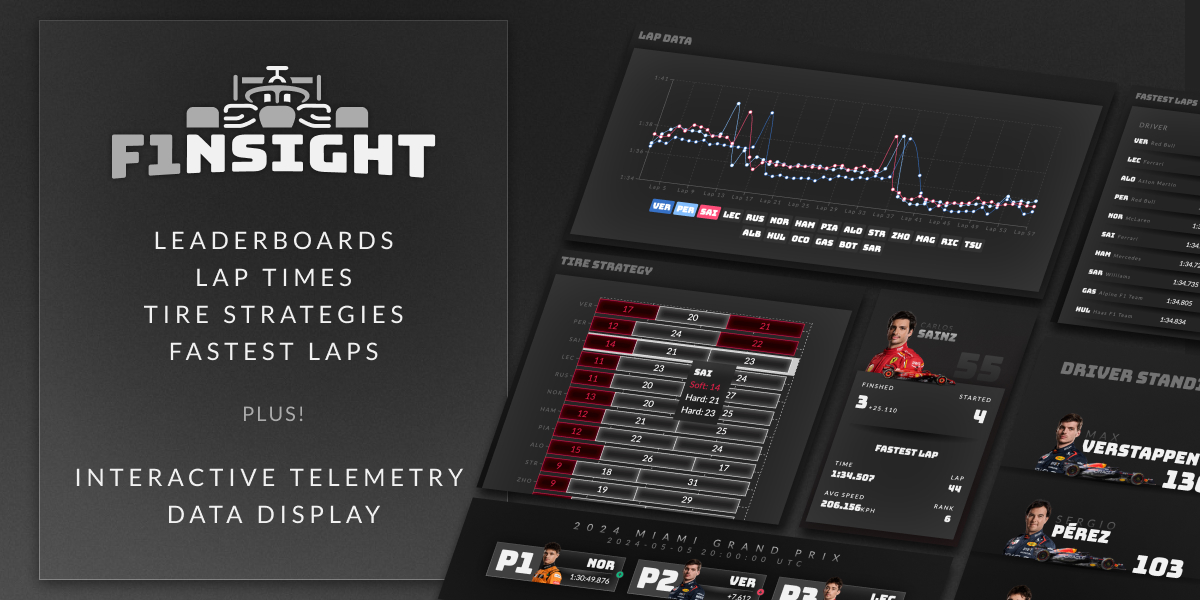
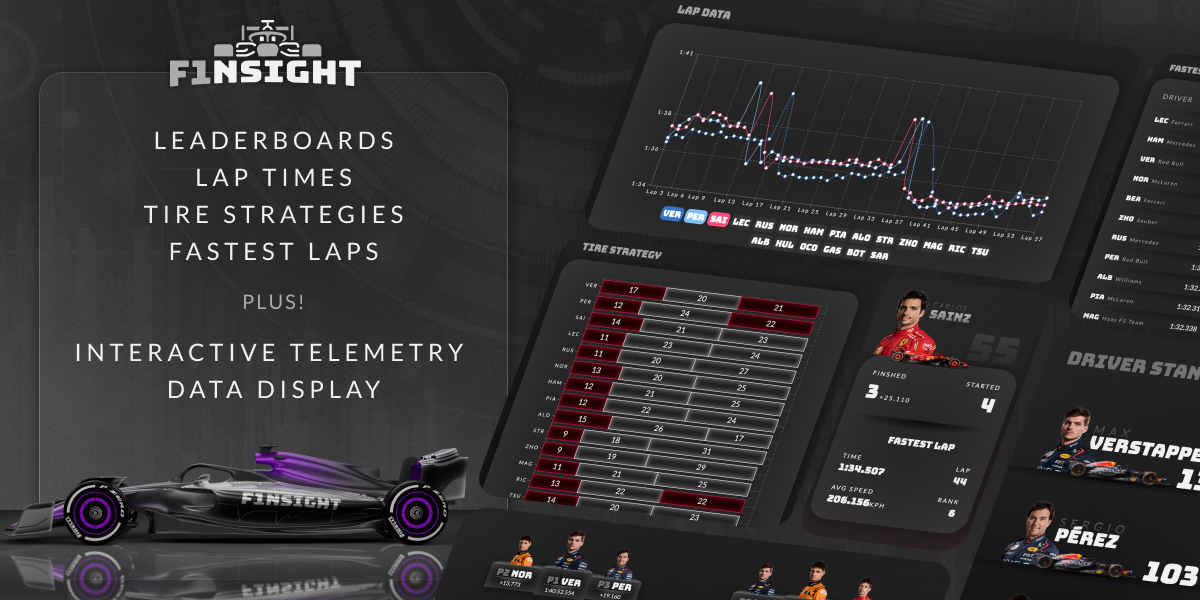
landing cleanup and meta image

diff --git a/src/components/LandingPage.js b/src/components/LandingPage.js
@@ -9,15 +9,18 @@ export function LandingPage() {
   return (
     <div className="global-container relative ">
 
+      {/* Hero */}
       <div className="landing-hero drop-shadow-lg mb-32">
         <h1 className="heading-1 max-lg:px-16 lg:px-64 text-center pt-32">Your Ultimate Destination for F1 Data and Analysis</h1>
         <img alt="" src={`${process.env.PUBLIC_URL + "/images/liverySide.png"}`} />
       </div>
 
+      {/* Intro */}
       <div className="landing-section-intro max-md:h-[20rem] md:h-[12rem] flex items-center justify-center text-center">
-        <p className="z-10 relative w-[75%] max-sm:mr-32">Dive into the world of Formula 1 with our comprehensive suite of tools and insights designed to enhance your understanding and appreciation of the sport.</p>
+        <p className="text-18 z-10 relative w-[75%] max-sm:mr-32">Dive into the world of Formula 1 with our comprehensive suite of tools and insights designed to enhance your understanding and appreciation of the sport.</p>
       </div>
 
+      {/* beyond the track */}
       <div className="landing-section-features flex item-start relative">
         <div className="landing-section-content">
         
@@ -26,7 +29,7 @@ export function LandingPage() {
             <img alt="" src={`${process.env.PUBLIC_URL + "/images/tireStrat.png"}`} />
           </div>
 
-          <div className="relative">
+          <div className="relative z-10">
             <p className="uppercase text-plum-300 tracking-sm md:mt-24">beyond the track</p>
             <p className="heading-3 mb-24">Data, Insights, Action</p>
 
@@ -43,11 +46,11 @@ export function LandingPage() {
             <p className="mb-24">Track the drivers setting the pace each race.</p>
           </div>
 
-          <img className="absolute translate-x-[25%] -translate-y-[50%] top-full" alt="" src={`${process.env.PUBLIC_URL + "/images/liveryFrontSide.png"}`} />
-
+          <img className="absolute translate-x-[10%] max-md:-translate-y-[20%] md:-translate-y-[50%] top-full" alt="" src={`${process.env.PUBLIC_URL + "/images/liveryFrontSide.png"}`} />
         </div>
       </div>
 
+      {/* Interactive Telemetry Viewer */}
       <div className="landing-section-viewer">
         <div className="landing-section-viewer__wrapper">
           <p className="heading-3">Interactive Telemetry Viewer</p>
@@ -69,6 +72,7 @@ export function LandingPage() {
         </div>
       </div>
 
+      {/* Contact Us */}
       <div className="landing-section-contact mx-16 flex items-center mb-[12rem]">
         <img className="landing-section-contact__media mb-24" alt="" src={`${process.env.PUBLIC_URL + "/images/liveryTopView.png"}`} />
         

diff --git a/src/output.css b/src/output.css
@@ -90,11 +90,11 @@
 }
 
 .landing-section-intro:after {
-  background: rgb(137, 15, 213, .5);
+  background: linear-gradient(90deg, rgba(137,15,213,0) 0%, rgba(137,15,213,0.5) 25%);
   content: '';
   position: absolute;
   right: 3.2rem;
-  left: -3.2rem;
+  left: -15rem;
   bottom: 0;
   -webkit-backdrop-filter: blur(12px);
           backdrop-filter: blur(12px);
@@ -157,8 +157,11 @@
 
 .landing-section-features {
   position: relative;
-  padding-top: 10rem;
+  padding-top: 5rem;
   z-index: 10;
+  @media (min-width: 768px) {
+    padding-top: 10rem;
+  }
 }
 
 .landing-section-features:after {
@@ -2359,6 +2362,21 @@ input[type="range"]::-ms-fill-lower {
 
 .translate-x-\[25\%\] {
   --tw-translate-x: 25%;
+  transform: translate(var(--tw-translate-x), var(--tw-translate-y)) rotate(var(--tw-rotate)) skewX(var(--tw-skew-x)) skewY(var(--tw-skew-y)) scaleX(var(--tw-scale-x)) scaleY(var(--tw-scale-y));
+}
+
+.-translate-y-\[10\%\] {
+  --tw-translate-y: -10%;
+  transform: translate(var(--tw-translate-x), var(--tw-translate-y)) rotate(var(--tw-rotate)) skewX(var(--tw-skew-x)) skewY(var(--tw-skew-y)) scaleX(var(--tw-scale-x)) scaleY(var(--tw-scale-y));
+}
+
+.translate-x-\[10\%\] {
+  --tw-translate-x: 10%;
+  transform: translate(var(--tw-translate-x), var(--tw-translate-y)) rotate(var(--tw-rotate)) skewX(var(--tw-skew-x)) skewY(var(--tw-skew-y)) scaleX(var(--tw-scale-x)) scaleY(var(--tw-scale-y));
+}
+
+.-translate-y-\[20\%\] {
+  --tw-translate-y: -20%;
   transform: translate(var(--tw-translate-x), var(--tw-translate-y)) rotate(var(--tw-rotate)) skewX(var(--tw-skew-x)) skewY(var(--tw-skew-y)) scaleX(var(--tw-scale-x)) scaleY(var(--tw-scale-y));
 }
 
@@ -7383,6 +7401,11 @@ code {
     width: 100%;
   }
 
+  .max-md\:-translate-y-\[20\%\] {
+    --tw-translate-y: -20%;
+    transform: translate(var(--tw-translate-x), var(--tw-translate-y)) rotate(var(--tw-rotate)) skewX(var(--tw-skew-x)) skewY(var(--tw-skew-y)) scaleX(var(--tw-scale-x)) scaleY(var(--tw-scale-y));
+  }
+
   .max-md\:flex-col {
     flex-direction: column;
   }
@@ -7584,6 +7607,11 @@ code {
 
   .md\:max-w-xl {
     max-width: 36rem;
+  }
+
+  .md\:-translate-y-\[50\%\] {
+    --tw-translate-y: -50%;
+    transform: translate(var(--tw-translate-x), var(--tw-translate-y)) rotate(var(--tw-rotate)) skewX(var(--tw-skew-x)) skewY(var(--tw-skew-y)) scaleX(var(--tw-scale-x)) scaleY(var(--tw-scale-y));
   }
 
   .md\:flex-row {

diff --git a/src/components/LandingPage.css b/src/components/LandingPage.css
@@ -34,11 +34,11 @@
     }
   }
   .landing-section-intro:after {
-    background: rgb(137, 15, 213, .5);
+    background: linear-gradient(90deg, rgba(137,15,213,0) 0%, rgba(137,15,213,0.5) 25%);
     content: '';
     position: absolute;
     right: 3.2rem;
-    left: -3.2rem;
+    left: -15rem;
     bottom: 0;
     backdrop-filter: blur(12px);
     border-top-right-radius: 4.8rem;
@@ -95,8 +95,11 @@
   }
   .landing-section-features {
     position: relative;
-    padding-top: 10rem;
+    padding-top: 5rem;
     z-index: 10;
+    @media (min-width: 768px) {
+      padding-top: 10rem;
+    }
   }
   .landing-section-features:after {
     background: linear-gradient(to bottom, rgb(137, 15, 213, .5), #551a7a);
